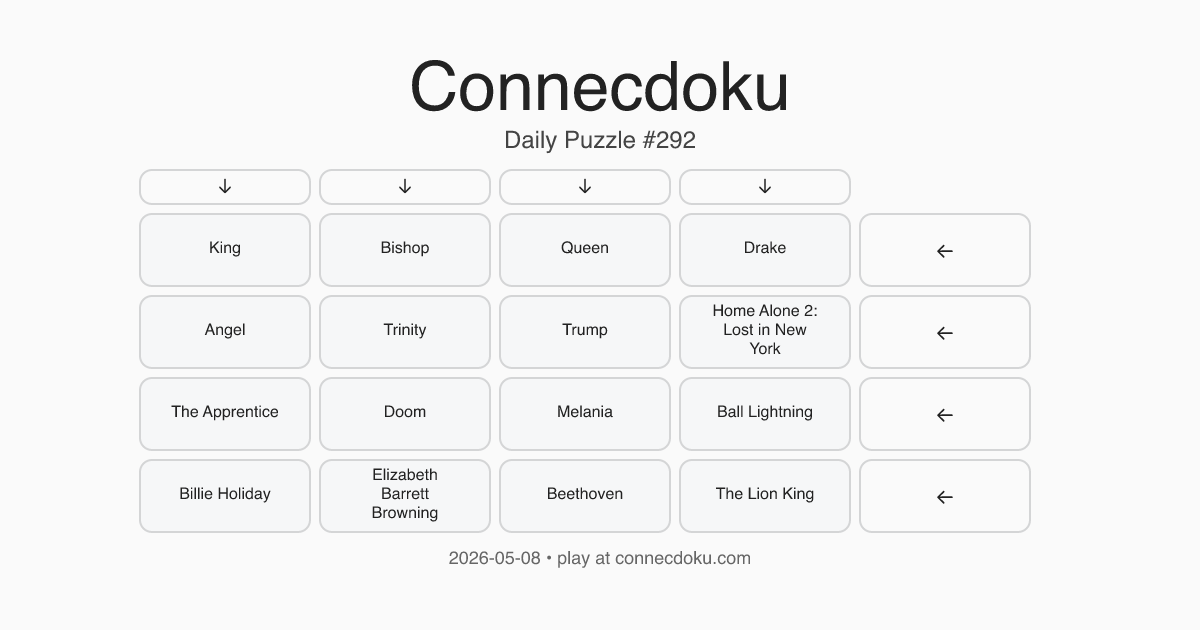
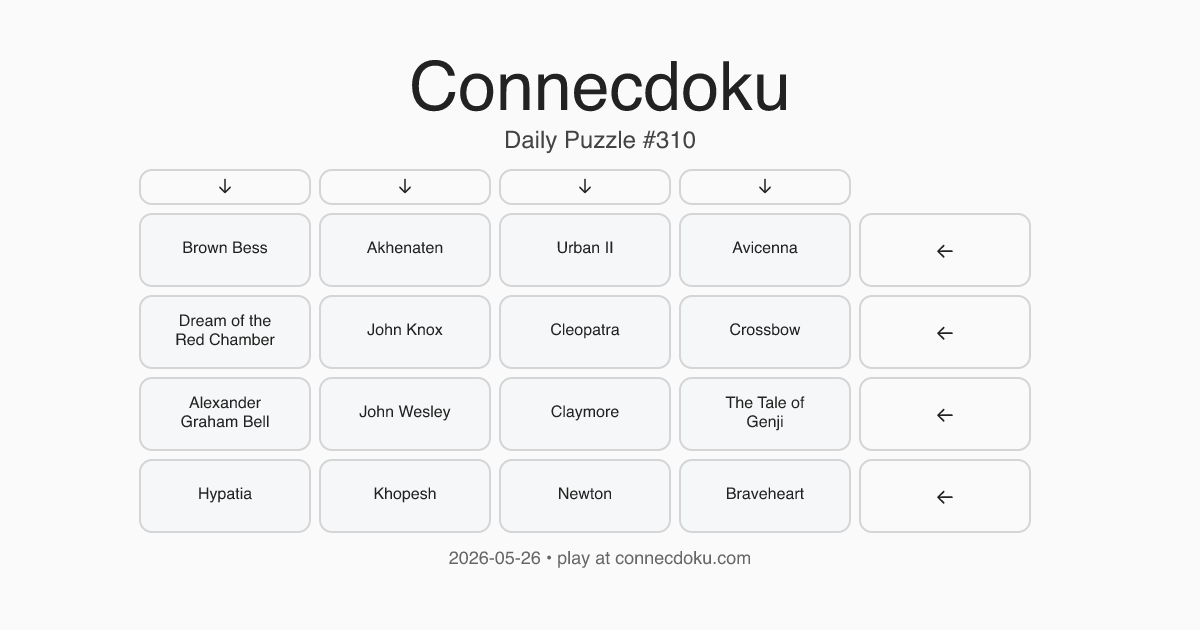
Add benchmark social share card generation

diff --git a/generate_benchmark_social_preview.js b/generate_benchmark_social_preview.js
@@ -1,0 +1,198 @@
+#!/usr/bin/env node
+
+import fs from "fs";
+import path from "path";
+import { fileURLToPath } from "url";
+import { Resvg } from "@resvg/resvg-js";
+import { ensureFredokaFontPath } from "./social_preview_font.js";
+
+const __filename = fileURLToPath(import.meta.url);
+const __dirname = path.dirname(__filename);
+
+const OUTPUT_PATH = path.join(__dirname, "benchmark-social-preview.png");
+const BENCHMARK_API_URL =
+  process.env.BENCHMARK_API_URL || "https://connecdoku.com/api/v1/competition/benchmark";
+const OFFICIAL_MODEL_ORDER = [
+  "gpt-5.5",
+  "gpt-5.4",
+  "gpt-5.3",
+  "gpt-5.4-nano",
+  "opus-4.7",
+  "sonnet-4.6",
+  "haiku-4.5",
+  "gemini-3.5-flash",
+  "grok-4.3",
+  "kimi-k2.5",
+  "kimi-k2.6",
+  "composer-2",
+  "composer-2.5",
+];
+const OFFICIAL_MODEL_SET = new Set(OFFICIAL_MODEL_ORDER);
+
+function escapeXml(text) {
+  return String(text)
+    .replaceAll("&", "&amp;")
+    .replaceAll("<", "&lt;")
+    .replaceAll(">", "&gt;")
+    .replaceAll('"', "&quot;")
+    .replaceAll("'", "&apos;");
+}
+
+function safeAvg(value) {
+  const n = Number(value);
+  return Number.isFinite(n) ? n : null;
+}
+
+function scoreColor(score, minScore, maxScore) {
+  const s = Number(score);
+  if (!Number.isFinite(s)) return "hsl(0 0% 82%)";
+  const lo = Number.isFinite(minScore) ? minScore : s;
+  const hi = Number.isFinite(maxScore) ? maxScore : s;
+  const span = Math.max(hi - lo, 0.0001);
+  const t = Math.max(0, Math.min(1, (s - lo) / span));
+  const hue = 120 * t;
+  return `hsl(${hue.toFixed(1)} 72% 52%)`;
+}
+
+function computeScoreRows(leaderboard) {
+  return (Array.isArray(leaderboard) ? leaderboard : [])
+    .filter((row) => OFFICIAL_MODEL_SET.has(String(row.model || "")))
+    .map((row) => {
+      const avgStrikes = safeAvg(row.avg_strikes);
+      const avgCorrect = safeAvg(row.avg_correct_guesses);
+      if (avgStrikes === null || avgCorrect === null) return null;
+      return {
+        model: row.model,
+        label: row.display_name || row.model,
+        score: avgCorrect + (5 - avgStrikes),
+        avgStrikes,
+        avgCorrect,
+      };
+    })
+    .filter(Boolean)
+    .sort((a, b) => {
+      if (b.score !== a.score) return b.score - a.score;
+      return OFFICIAL_MODEL_ORDER.indexOf(a.model) - OFFICIAL_MODEL_ORDER.indexOf(b.model);
+    });
+}
+
+function fmtDate(dateText) {
+  if (!dateText) return null;
+  const d = new Date(`${dateText}T00:00:00`);
+  if (Number.isNaN(d.getTime())) return null;
+  return d.toLocaleDateString("en-US", {
+    month: "short",
+    day: "numeric",
+    year: "numeric",
+    timeZone: "UTC",
+  });
+}
+
+function buildBars(rows) {
+  if (!rows.length) {
+    return `
+      <rect x="96" y="206" width="1008" height="314" rx="22" fill="#f6f7f8" stroke="#d4d5d6" stroke-width="2"/>
+      <text x="600" y="355" text-anchor="middle" fill="#6b7280" font-size="32" font-family="system-ui, -apple-system, 'Segoe UI', Helvetica, Arial, sans-serif">Benchmark data unavailable</text>
+      <text x="600" y="395" text-anchor="middle" fill="#9ca3af" font-size="20" font-family="system-ui, -apple-system, 'Segoe UI', Helvetica, Arial, sans-serif">The build will still produce a valid share image.</text>
+    `;
+  }
+
+  const topRows = rows.slice(0, 8);
+  const minScore = Math.min(...topRows.map((row) => row.score));
+  const maxScore = Math.max(...topRows.map((row) => row.score));
+  const widthDenom = maxScore > 0 ? maxScore : 1;
+
+  let svg = "";
+  topRows.forEach((row, index) => {
+    const y = 216 + index * 36;
+    const fillWidth = Math.max(14, Math.round((row.score / widthDenom) * 596));
+    svg += `<text x="118" y="${y + 17}" fill="#111827" font-size="20" font-weight="700" font-family="system-ui, -apple-system, 'Segoe UI', Helvetica, Arial, sans-serif">${escapeXml(row.label)}</text>`;
+    svg += `<rect x="388" y="${y}" width="596" height="24" rx="999" fill="#f3f4f6" stroke="#e5e7eb" stroke-width="1"/>`;
+    svg += `<rect x="388" y="${y}" width="${fillWidth}" height="24" rx="999" fill="${scoreColor(row.score, minScore, maxScore)}"/>`;
+    svg += `<text x="1028" y="${y + 17}" text-anchor="end" fill="#1f2937" font-size="20" font-weight="700" font-family="system-ui, -apple-system, 'Segoe UI', Helvetica, Arial, sans-serif">${row.score.toFixed(2)}</text>`;
+  });
+  return svg;
+}
+
+function buildSvg({ scoreRows, latestDate, fetchedAt, fetchError }) {
+  const subtitle = latestDate
+    ? `Top benchmark chart through ${latestDate}`
+    : "Top benchmark chart";
+  const footer = fetchError
+    ? `Generated ${fetchedAt} • fallback image`
+    : `Generated ${fetchedAt} • score = avg correct + (5 - avg strikes)`;
+
+  return `<?xml version="1.0" encoding="UTF-8"?>
+<svg width="1200" height="630" viewBox="0 0 1200 630" xmlns="http://www.w3.org/2000/svg">
+  <defs>
+    <linearGradient id="bg" x1="0" y1="0" x2="1" y2="1">
+      <stop offset="0%" stop-color="#f8fbf8"/>
+      <stop offset="100%" stop-color="#eef7ef"/>
+    </linearGradient>
+  </defs>
+  <rect width="1200" height="630" fill="url(#bg)"/>
+  <rect x="60" y="42" width="1080" height="546" rx="28" fill="#ffffff" stroke="#d4d5d6" stroke-width="3"/>
+  <text x="600" y="116" text-anchor="middle" fill="#222" font-size="66" font-weight="400" font-family="'Fredoka One', system-ui, -apple-system, 'Segoe UI', Helvetica, Arial, sans-serif">Connecdoku</text>
+  <text x="600" y="162" text-anchor="middle" fill="#222" font-size="34" font-weight="700" font-family="system-ui, -apple-system, 'Segoe UI', Helvetica, Arial, sans-serif">AI Benchmark</text>
+  <text x="600" y="192" text-anchor="middle" fill="#6b7280" font-size="22" font-family="system-ui, -apple-system, 'Segoe UI', Helvetica, Arial, sans-serif">${escapeXml(subtitle)}</text>
+  <text x="118" y="196" fill="#4b5563" font-size="16" font-weight="700" letter-spacing="1.5" font-family="system-ui, -apple-system, 'Segoe UI', Helvetica, Arial, sans-serif">CONNECDOKU BENCHMARK SCORE</text>
+  ${buildBars(scoreRows)}
+  <text x="600" y="556" text-anchor="middle" fill="#6b7280" font-size="18" font-family="system-ui, -apple-system, 'Segoe UI', Helvetica, Arial, sans-serif">${escapeXml(footer)}</text>
+</svg>`;
+}
+
+async function fetchBenchmarkData() {
+  const response = await fetch(BENCHMARK_API_URL, {
+    headers: { accept: "application/json" },
+  });
+  if (!response.ok) {
+    throw new Error(`HTTP ${response.status}`);
+  }
+  const data = await response.json();
+  if (!data || data.ok !== true) {
+    throw new Error("Invalid benchmark API response");
+  }
+  return data;
+}
+
+async function main() {
+  const fredokaFontPath = ensureFredokaFontPath();
+  let scoreRows = [];
+  let latestDate = null;
+  let fetchError = null;
+
+  try {
+    const data = await fetchBenchmarkData();
+    scoreRows = computeScoreRows(data.leaderboard);
+    latestDate = fmtDate(Array.isArray(data.dates) && data.dates.length ? data.dates[0] : null);
+  } catch (error) {
+    fetchError = error instanceof Error ? error.message : String(error);
+  }
+
+  const fetchedAt = new Date().toISOString().slice(0, 10);
+  const svg = buildSvg({ scoreRows, latestDate, fetchedAt, fetchError });
+  const resvg = new Resvg(svg, {
+    font: {
+      fontFiles: fredokaFontPath ? [fredokaFontPath] : [],
+      loadSystemFonts: true,
+    },
+    fitTo: {
+      mode: "width",
+      value: 1200,
+    },
+  });
+  const pngData = resvg.render().asPng();
+  fs.writeFileSync(OUTPUT_PATH, pngData);
+
+  if (fetchError) {
+    console.log(`Wrote ${OUTPUT_PATH} with fallback content (${fetchError})`);
+    return;
+  }
+
+  console.log(`Wrote ${OUTPUT_PATH}`);
+}
+
+main().catch((error) => {
+  console.error(error);
+  process.exitCode = 1;
+});

diff --git a/social_preview_font.js b/social_preview_font.js
@@ -1,0 +1,108 @@
+import fs from "fs";
+import path from "path";
+import zlib from "zlib";
+import { fileURLToPath } from "url";
+
+const __filename = fileURLToPath(import.meta.url);
+const __dirname = path.dirname(__filename);
+
+const FREDOKA_ONE_WOFF_PATH = path.join(
+  __dirname,
+  "node_modules",
+  "@fontsource",
+  "fredoka-one",
+  "files",
+  "fredoka-one-latin-400-normal.woff",
+);
+const FREDOKA_ONE_TTF_PATH = path.join(__dirname, ".cache", "fredoka-one-latin-400-normal.ttf");
+
+function pad4(value) {
+  return (value + 3) & ~3;
+}
+
+function maxPowerOfTwoAtMost(n) {
+  let value = 1;
+  while (value * 2 <= n) value *= 2;
+  return value;
+}
+
+function woffToSfnt(buffer) {
+  if (buffer.toString("ascii", 0, 4) !== "wOFF") {
+    throw new Error("Expected a WOFF font file.");
+  }
+
+  const flavor = buffer.readUInt32BE(4);
+  const numTables = buffer.readUInt16BE(12);
+  const totalSfntSize = buffer.readUInt32BE(16);
+  const recordOffset = 44;
+  const tableRecords = [];
+
+  for (let i = 0; i < numTables; i += 1) {
+    const entryOffset = recordOffset + i * 20;
+    const tag = buffer.toString("ascii", entryOffset, entryOffset + 4);
+    tableRecords.push({
+      tag,
+      offset: buffer.readUInt32BE(entryOffset + 4),
+      compLength: buffer.readUInt32BE(entryOffset + 8),
+      origLength: buffer.readUInt32BE(entryOffset + 12),
+      checksum: buffer.readUInt32BE(entryOffset + 16),
+    });
+  }
+
+  tableRecords.sort((a, b) => a.tag.localeCompare(b.tag));
+
+  const sfnt = Buffer.alloc(totalSfntSize);
+  sfnt.writeUInt32BE(flavor, 0);
+  sfnt.writeUInt16BE(numTables, 4);
+
+  const maxPower = maxPowerOfTwoAtMost(numTables);
+  const searchRange = maxPower * 16;
+  const entrySelector = Math.log2(maxPower);
+  const rangeShift = numTables * 16 - searchRange;
+
+  sfnt.writeUInt16BE(searchRange, 6);
+  sfnt.writeUInt16BE(entrySelector, 8);
+  sfnt.writeUInt16BE(rangeShift, 10);
+
+  let currentOffset = 12 + numTables * 16;
+
+  tableRecords.forEach((record, index) => {
+    const source = buffer.subarray(record.offset, record.offset + record.compLength);
+    const tableData =
+      record.compLength < record.origLength ? zlib.inflateSync(source) : Buffer.from(source);
+
+    if (tableData.length !== record.origLength) {
+      throw new Error(`WOFF table ${record.tag} expanded to ${tableData.length}, expected ${record.origLength}.`);
+    }
+
+    const dirOffset = 12 + index * 16;
+    sfnt.write(record.tag, dirOffset, 4, "ascii");
+    sfnt.writeUInt32BE(record.checksum >>> 0, dirOffset + 4);
+    sfnt.writeUInt32BE(currentOffset, dirOffset + 8);
+    sfnt.writeUInt32BE(record.origLength, dirOffset + 12);
+
+    tableData.copy(sfnt, currentOffset);
+    currentOffset += pad4(record.origLength);
+  });
+
+  return sfnt;
+}
+
+export function ensureFredokaFontPath() {
+  const overridePath = process.env.FREDOKA_ONE_FONT_PATH;
+  if (overridePath && fs.existsSync(overridePath)) {
+    return overridePath;
+  }
+  if (fs.existsSync(FREDOKA_ONE_TTF_PATH)) {
+    return FREDOKA_ONE_TTF_PATH;
+  }
+  if (!fs.existsSync(FREDOKA_ONE_WOFF_PATH)) {
+    return null;
+  }
+
+  fs.mkdirSync(path.dirname(FREDOKA_ONE_TTF_PATH), { recursive: true });
+  const woffBuffer = fs.readFileSync(FREDOKA_ONE_WOFF_PATH);
+  const sfntBuffer = woffToSfnt(woffBuffer);
+  fs.writeFileSync(FREDOKA_ONE_TTF_PATH, sfntBuffer);
+  return FREDOKA_ONE_TTF_PATH;
+}

diff --git a/generate_social_preview.js b/generate_social_preview.js
@@ -4,6 +4,7 @@ import fs from "fs";
 import path from "path";
 import { fileURLToPath } from "url";
 import { Resvg } from "@resvg/resvg-js";
+import { ensureFredokaFontPath } from "./social_preview_font.js";
 
 const __filename = fileURLToPath(import.meta.url);
 const __dirname = path.dirname(__filename);
@@ -11,15 +12,6 @@ const __dirname = path.dirname(__filename);
 const START_DATE = new Date("2025-07-21T00:00:00");
 const OUTPUT_PATH = path.join(__dirname, "social-preview.png");
 const PUZZLES_PATH = path.join(__dirname, "daily_puzzles", "puzzles.json");
-const FREDOKA_ONE_FONT_PATH = path.join(
-  __dirname,
-  "node_modules",
-  "@fontsource",
-  "fredoka-one",
-  "files",
-  "fredoka-one-all-400-normal.woff",
-);
-
 function todayIndex() {
   const now = new Date();
   const localMidnight = new Date(now.getFullYear(), now.getMonth(), now.getDate());
@@ -207,6 +199,7 @@ function buildSvg({ puzzleNumber, shuffledGrid }) {
 }
 
 function main() {
+  const fredokaFontPath = ensureFredokaFontPath();
   const puzzlesRaw = fs.readFileSync(PUZZLES_PATH, "utf8");
   const puzzles = JSON.parse(puzzlesRaw);
   if (!Array.isArray(puzzles) || puzzles.length === 0) {
@@ -224,7 +217,7 @@ function main() {
   const svg = buildSvg({ puzzleNumber, shuffledGrid });
   const resvg = new Resvg(svg, {
     font: {
-      fontFiles: [FREDOKA_ONE_FONT_PATH],
+      fontFiles: fredokaFontPath ? [fredokaFontPath] : [],
       loadSystemFonts: true,
     },
     fitTo: {

diff --git a/benchmark.html b/benchmark.html
@@ -6,6 +6,18 @@
 <link rel="icon" href="favicon.ico">
 <meta name="viewport" content="width=device-width,initial-scale=1">
 <meta name="description" content="Connecdoku AI benchmark leaderboard and daily model performance matrix.">
+<meta property="og:type" content="website">
+<meta property="og:url" content="https://connecdoku.com/benchmark">
+<meta property="og:title" content="Connecdoku AI Benchmark">
+<meta property="og:description" content="Daily head-to-head performance across models. Lower strike counts are better.">
+<meta property="og:image" content="https://connecdoku.com/benchmark-social-preview.png">
+<meta property="og:image:width" content="1200">
+<meta property="og:image:height" content="630">
+<meta property="twitter:card" content="summary_large_image">
+<meta property="twitter:url" content="https://connecdoku.com/benchmark">
+<meta property="twitter:title" content="Connecdoku AI Benchmark">
+<meta property="twitter:description" content="Daily head-to-head performance across models. Lower strike counts are better.">
+<meta property="twitter:image" content="https://connecdoku.com/benchmark-social-preview.png">
 <link rel="preconnect" href="https://fonts.googleapis.com">
 <link rel="preconnect" href="https://fonts.gstatic.com" crossorigin>
 <link href="https://fonts.googleapis.com/css2?family=Fredoka+One&display=swap" rel="stylesheet">